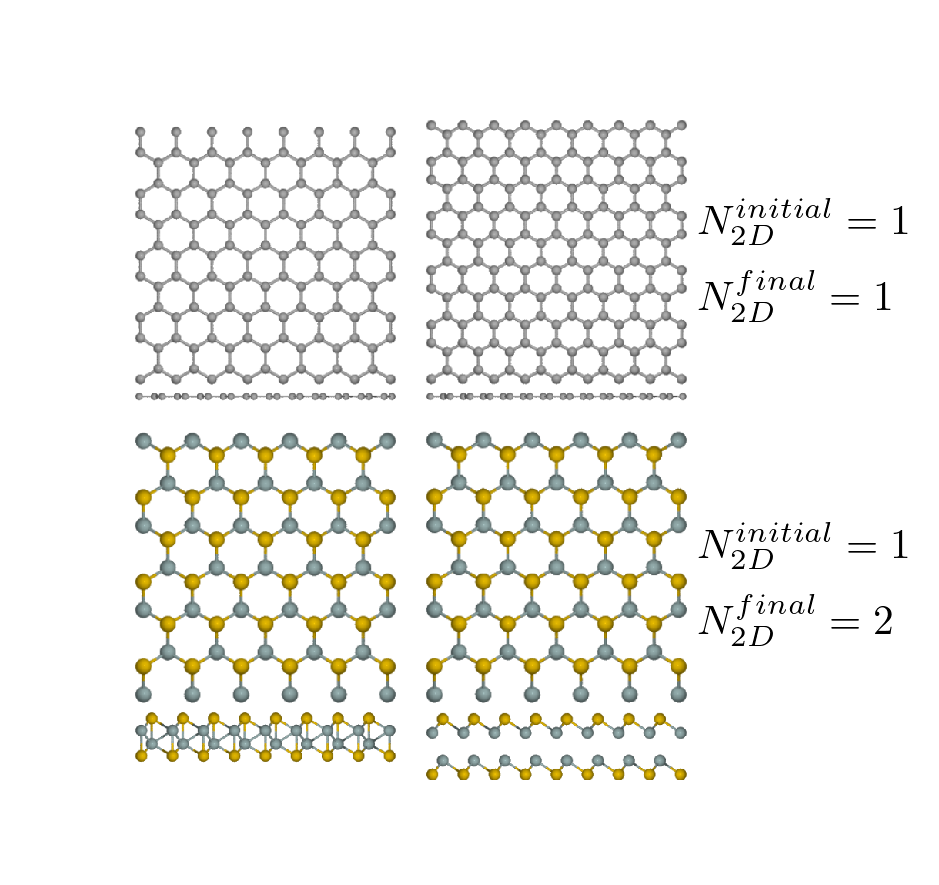
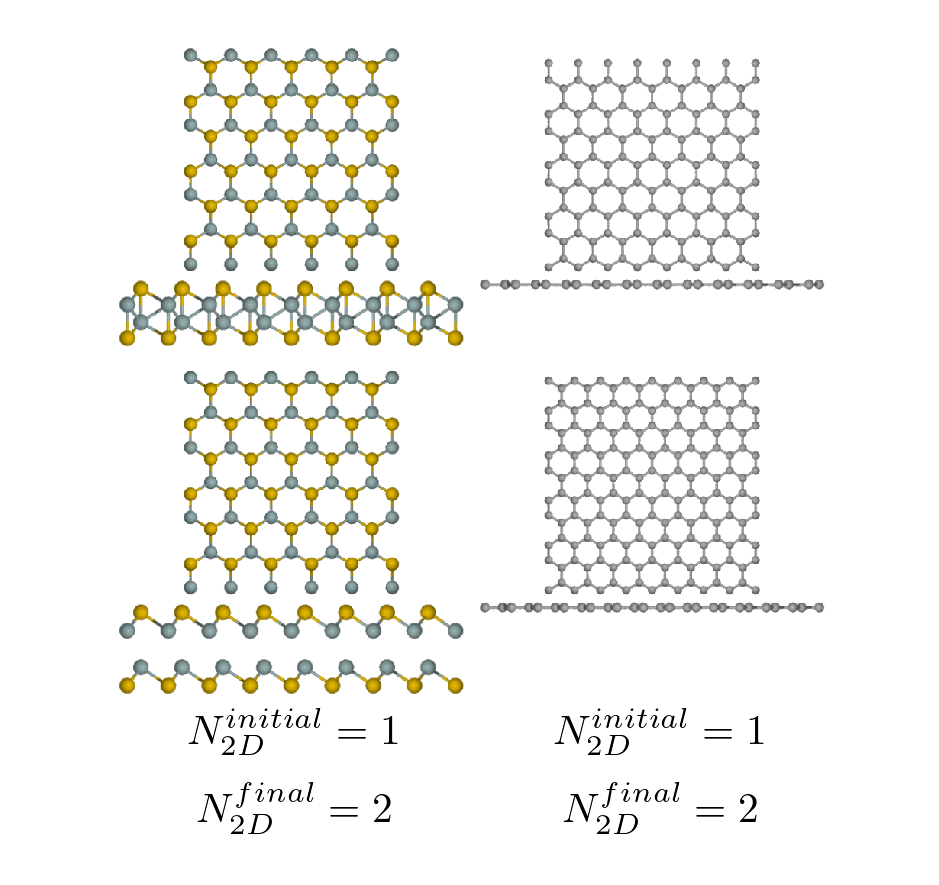
minor changes to dimensionality figure

diff --git a/dimensionality-plot/plot.duplicates-figure.py b/dimensionality-plot/plot.duplicates-figure.py
@@ -18,10 +18,12 @@ fig.set_size_inches(*figsize)
 
 im = ax.imshow(img)
 
-plt.text(750, 180, '$N_{2D}^{initial} = 1$')
-plt.text(750, 280, '$N_{2D}^{final} = 1$')
-plt.text(750, 600, '$N_{2D}^{initial} = 1$')
-plt.text(750, 700, '$N_{2D}^{final} = 2$')
+plt.text(240, 910, '$N_{2D}^{initial} = 1$', verticalalignment='center', horizontalalignment='center')
+plt.text(240, 1010, '$N_{2D}^{final} = 2$', verticalalignment='center', horizontalalignment='center')
+plt.text(720, 910, '$N_{2D}^{initial} = 1$', verticalalignment='center', horizontalalignment='center')
+plt.text(720, 1010, '$N_{2D}^{final} = 2$', verticalalignment='center', horizontalalignment='center')
 
 plt.axis('off')
+plt.tight_layout()
 plt.savefig('dimensionality.png', dpi=300)
+plt.show()
